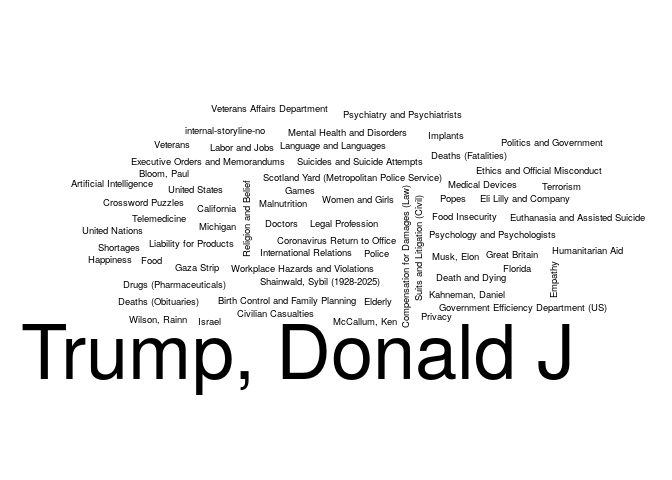
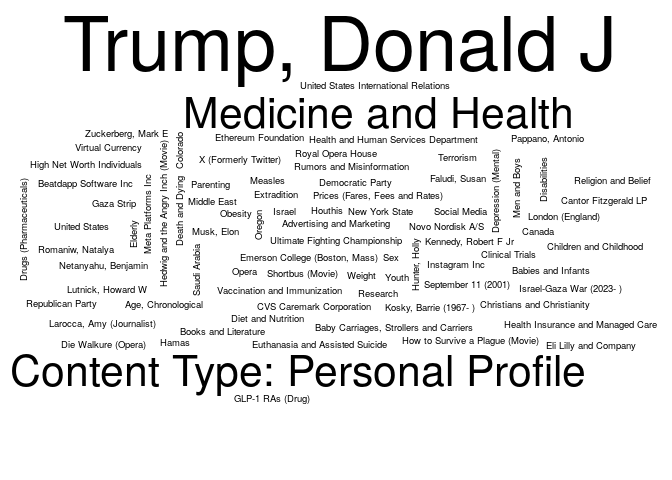
Updating the NYT report

Changed region(s): [[0.0, 0.0312, 0.9688, 0.8438]]

diff --git a/03-nytimes/README.md b/03-nytimes/README.md
@@ -5,7 +5,7 @@ The following is an example of how to use the [NYTimes
 API](https://developer.nytimes.com/) to get a list of articles related
 to a particular term. Here we are searching articles that include the
 term `"health"`, and that were published up to seven days ago since
-2025-05-05.
+2025-05-12.
 
 ``` r
 # Preparing a function to use the GET method with the NYTimes API
@@ -83,25 +83,25 @@ colnames(tab) <- c("Keyword", "# Articles")
 knitr::kable(tab, row.names = FALSE)
 ```
 
-| Keyword                               | \# Articles |
-|:--------------------------------------|------------:|
-| Israel-Gaza War (2023- )              |          10 |
-| Medicine and Health                   |          10 |
-| Trump, Donald J                       |          10 |
-| United States Politics and Government |          10 |
-| Artificial Intelligence               |           5 |
-| Birth Control and Family Planning     |           5 |
-| Bloom, Paul                           |           5 |
-| California                            |           5 |
-| Civilian Casualties                   |           5 |
-| Compensation for Damages (Law)        |           5 |
-| Coronavirus Return to Office          |           5 |
-| Crossword Puzzles                     |           5 |
-| Death and Dying                       |           5 |
-| Deaths (Fatalities)                   |           5 |
-| Deaths (Obituaries)                   |           5 |
-| Doctors                               |           5 |
-| Drugs (Pharmaceuticals)               |           5 |
-| Elderly                               |           5 |
-| Eli Lilly and Company                 |           5 |
-| Empathy                               |           5 |
+| Keyword                                | \# Articles |
+|:---------------------------------------|------------:|
+| Trump, Donald J                        |          15 |
+| Content Type: Personal Profile         |          10 |
+| Medicine and Health                    |          10 |
+| United States Politics and Government  |          10 |
+| Advertising and Marketing              |           5 |
+| Age, Chronological                     |           5 |
+| Babies and Infants                     |           5 |
+| Baby Carriages, Strollers and Carriers |           5 |
+| Beatdapp Software Inc                  |           5 |
+| Books and Literature                   |           5 |
+| Canada                                 |           5 |
+| Cantor Fitzgerald LP                   |           5 |
+| Children and Childhood                 |           5 |
+| Christians and Christianity            |           5 |
+| Clinical Trials                        |           5 |
+| Colorado                               |           5 |
+| CVS Caremark Corporation               |           5 |
+| Death and Dying                        |           5 |
+| Democratic Party                       |           5 |
+| Depression (Mental)                    |           5 |
